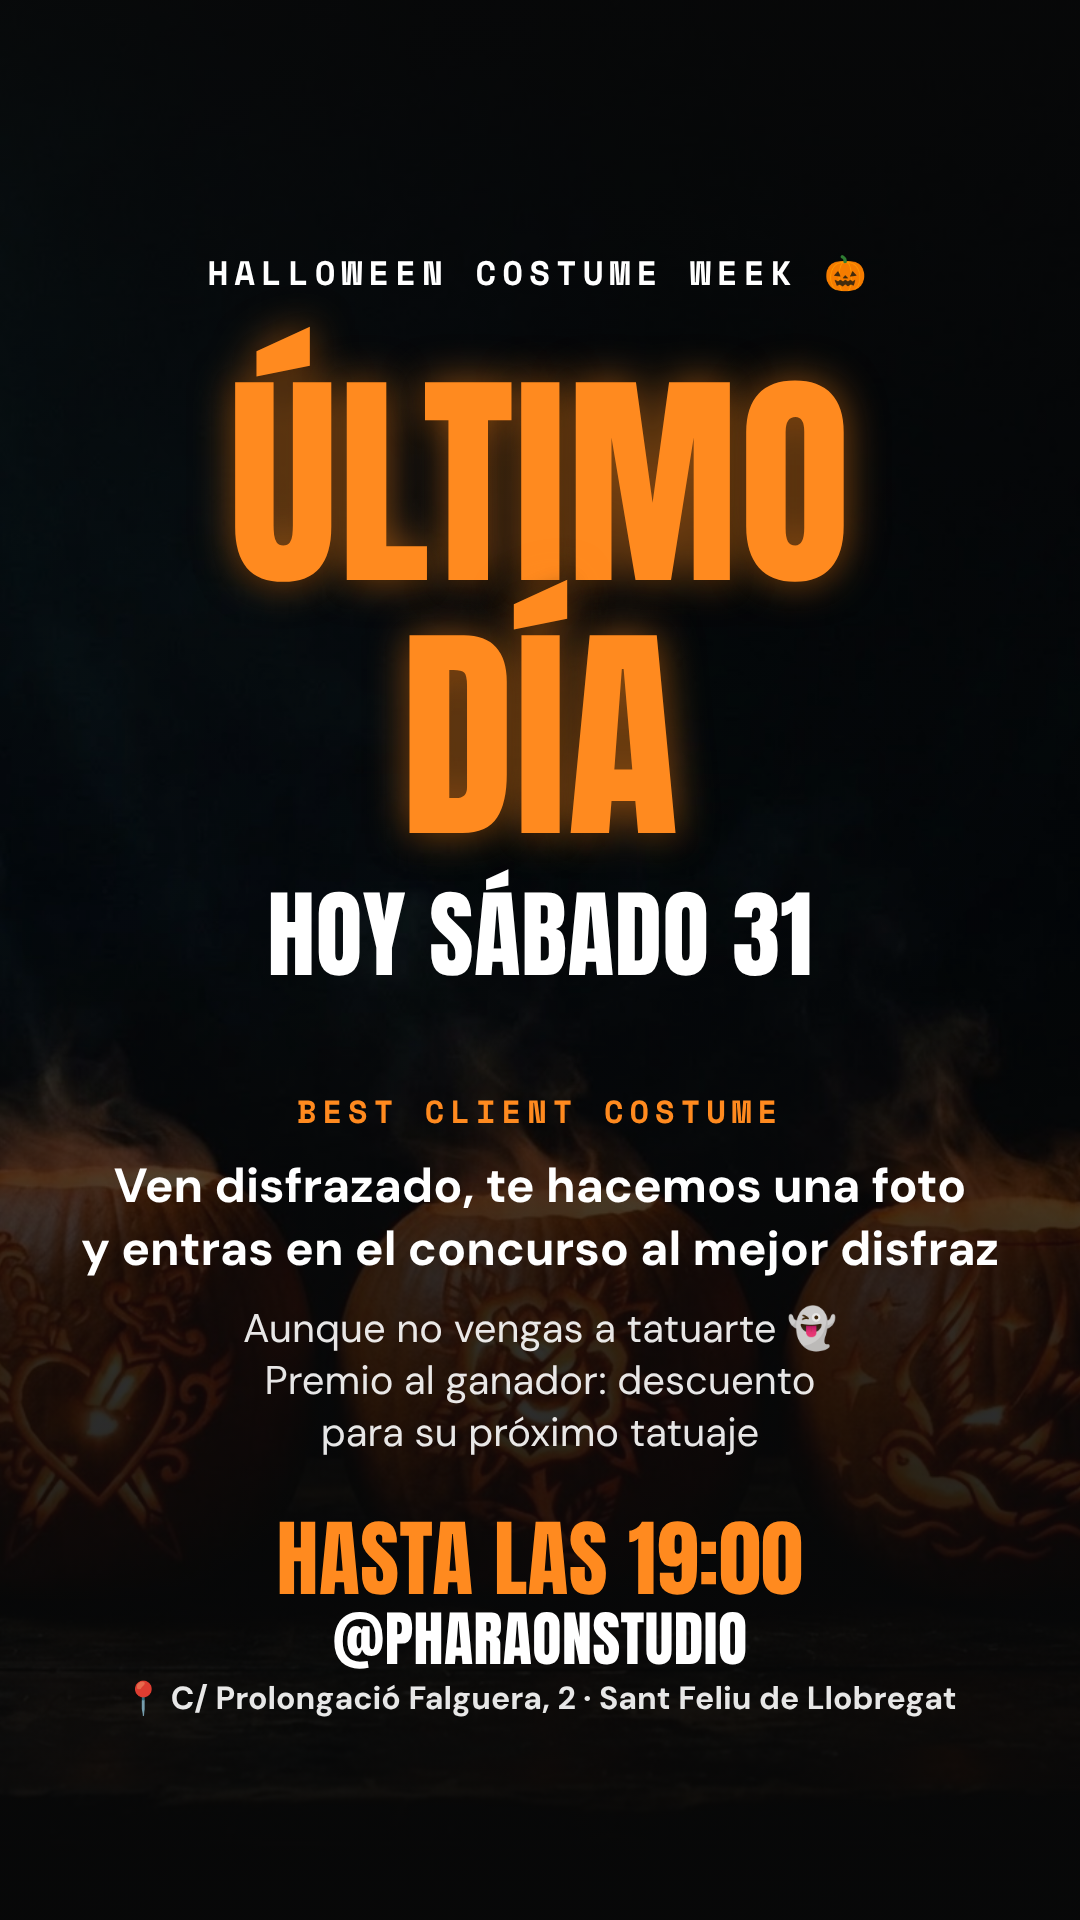
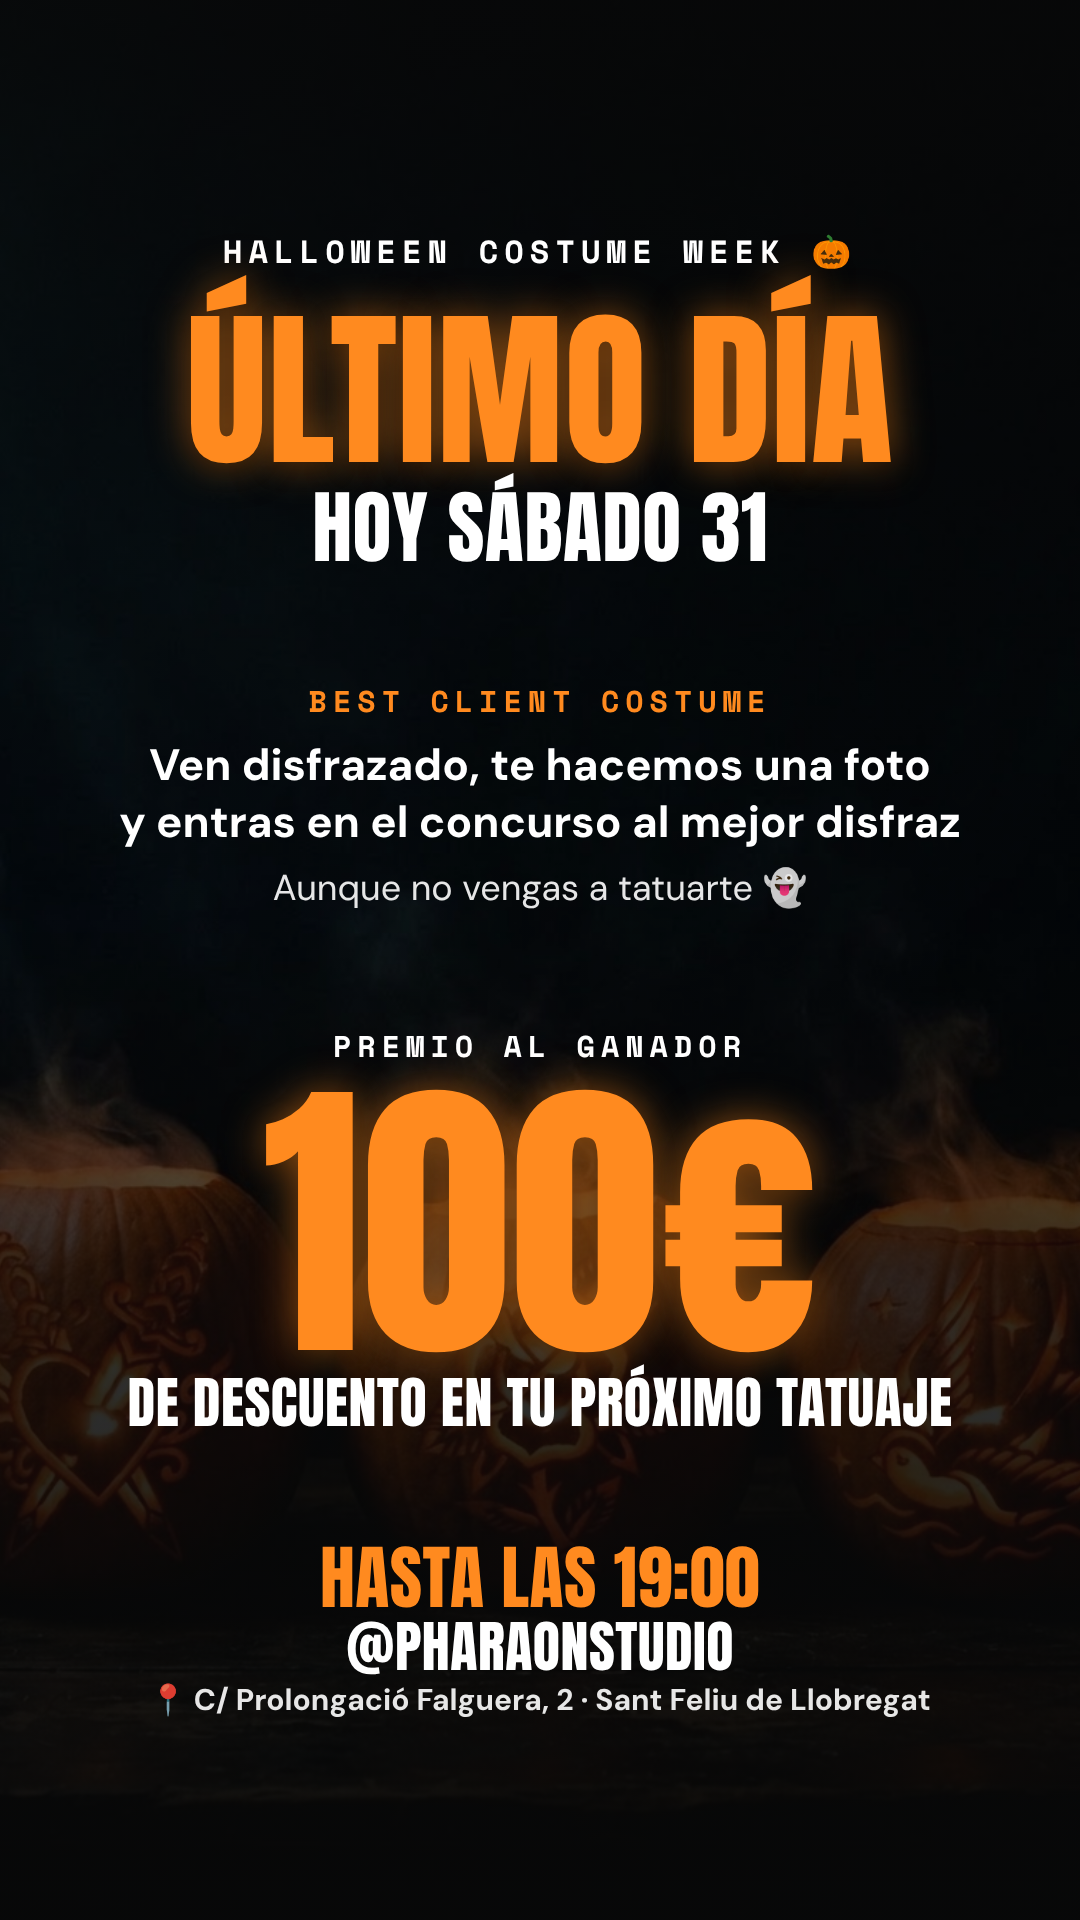
Historia último día: premio de 100 € destacado (lo pide el usuario)
Claude-Session: https://claude.ai/code/session_017Rsphfz7JrN2HBs3pyC4Qn

Changed region(s): [[0.0917, 0.125, 0.9167, 0.75], [0.1222, 0.7812, 0.8861, 0.9062]]

diff --git a/posts/halloween-2026/historias/ultimo-dia.html b/posts/halloween-2026/historias/ultimo-dia.html
@@ -2,7 +2,7 @@
 <html lang="es"><head><meta charset="utf-8">
 <link rel="stylesheet" href="../../_base/base.css">
 <!-- Historia 9:16 · sábado 31/10/2026, último día del concurso Best Client Costume. Horario del sábado: 9:00-19:00 (estudio/pharaon.md).
-     Sin cifras en euros. Márgenes de 250 px arriba y abajo para la interfaz de Instagram. -->
+     El usuario pide poner el premio de 100 € y destacarlo (31/10). Márgenes de 250 px arriba y abajo para la interfaz de Instagram. -->
 <style>
 :root { --naranja: #FF8A1F; }
 .slide { height: 1920px; padding: 0; background: #0b0b0b; }
@@ -14,20 +14,27 @@
 .brillo { text-shadow: 0 0 40px rgba(255,138,31,.55), 0 6px 20px rgba(0,0,0,.8); }
 </style></head><body>
 <section class="slide"><div class="fondo"></div><div class="velo"></div>
-  <div class="c" style="top:250px">
-    <div class="mono" style="font-size:34px; color:#fff">HALLOWEEN COSTUME WEEK 🎃</div>
-    <div class="titular naranja brillo" style="font-size:230px; line-height:1.1; margin-top:60px">ÚLTIMO<br>DÍA</div>
-    <div class="titular" style="font-size:96px; color:#fff; margin-top:26px">HOY SÁBADO 31</div>
+  <div style="position:absolute; left:60px; right:60px; top:230px; bottom:200px; display:flex; flex-direction:column; justify-content:space-between; align-items:center; text-align:center">
+  <div>
+    <div class="mono" style="font-size:32px; color:#fff">HALLOWEEN COSTUME WEEK 🎃</div>
+    <div class="titular naranja brillo" style="font-size:170px; line-height:1.1; margin-top:24px">ÚLTIMO DÍA</div>
+    <div class="titular" style="font-size:80px; color:#fff; margin-top:4px">HOY SÁBADO 31</div>
   </div>
-  <div class="c" style="top:1090px">
-    <div class="mono naranja" style="font-size:32px">BEST CLIENT COSTUME</div>
-    <div style="font-family:'DM Sans'; font-weight:700; font-size:48px; line-height:1.3; color:#fff; margin-top:22px">Ven disfrazado, te hacemos una foto<br>y entras en el concurso al mejor disfraz</div>
-    <div style="font-family:'DM Sans'; font-size:40px; line-height:1.3; color:#fff; opacity:.9; margin-top:22px">Aunque no vengas a tatuarte 👻<br>Premio al ganador: descuento<br>para su próximo tatuaje</div>
+  <div>
+    <div class="mono naranja" style="font-size:30px">BEST CLIENT COSTUME</div>
+    <div style="font-family:'DM Sans'; font-weight:700; font-size:44px; line-height:1.3; color:#fff; margin-top:16px">Ven disfrazado, te hacemos una foto<br>y entras en el concurso al mejor disfraz</div>
+    <div style="font-family:'DM Sans'; font-size:36px; color:#fff; opacity:.9; margin-top:12px">Aunque no vengas a tatuarte 👻</div>
   </div>
-  <div class="c" style="bottom:200px">
-    <div class="titular naranja" style="font-size:84px">HASTA LAS 19:00</div>
-    <div class="titular" style="font-size:60px; color:#fff; margin-top:10px">@PHARAONSTUDIO</div>
-    <div style="font-family:'DM Sans'; font-weight:700; font-size:32px; color:#fff; opacity:.9; margin-top:8px">📍 C/ Prolongació Falguera, 2 · Sant Feliu de Llobregat</div>
+  <div>
+    <div class="mono" style="font-size:30px; color:#fff">PREMIO AL GANADOR</div>
+    <div class="titular naranja brillo" style="font-size:300px; line-height:1; margin-top:6px">100€</div>
+    <div class="titular" style="font-size:56px; color:#fff; margin-top:2px">DE DESCUENTO EN TU PRÓXIMO TATUAJE</div>
   </div>
+  <div>
+    <div class="titular naranja" style="font-size:70px">HASTA LAS 19:00</div>
+    <div class="titular" style="font-size:56px; color:#fff; margin-top:6px">@PHARAONSTUDIO</div>
+    <div style="font-family:'DM Sans'; font-weight:700; font-size:30px; color:#fff; opacity:.9; margin-top:6px">📍 C/ Prolongació Falguera, 2 · Sant Feliu de Llobregat</div>
+  </div>
+</div>
 </section>
 </body></html>
